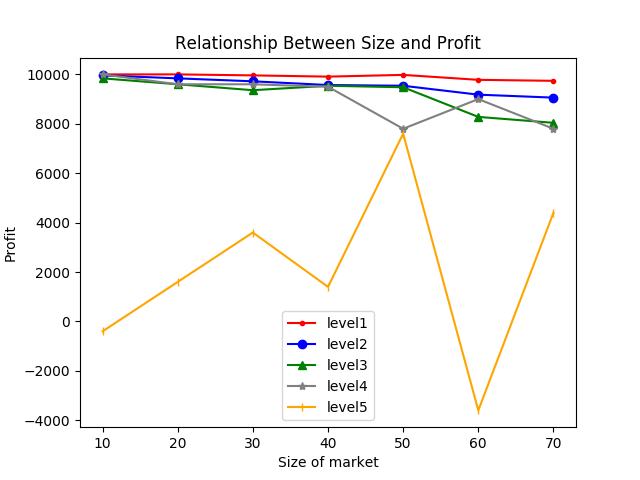
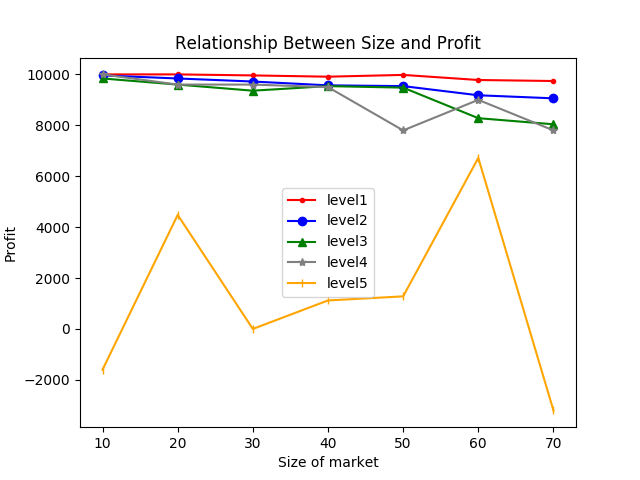
repeat the simulation for 100 times

diff --git a/Market_Profit.py b/Market_Profit.py
@@ -1,13 +1,15 @@
 import math
 import numpy as np
 import matplotlib.pyplot as plt
+import threading
+
 
 
 price_level = {'level1': 5,
                'level2': 15,
                'level3': 30,
                'level4': 50,
-               'level5': 100}
+               'level5': 80}
 
 income_level = {"low": 300,
                 "median": 1000,
@@ -24,6 +26,66 @@ level_color = {'level1': 'red',
                'level3': 'green',
                'level4': 'grey',
                'level5': 'orange'}
+
+# def getCustAmount(Market: object, resident_list: list):
+#     """
+#     For specific market, given a list of Resident objects, this function will calculate the amount of residents that will purchase in this market.
+#     :param Market: the target market object
+#     :param resident_list: the list of Resident object
+#     :return: the number of customers
+#     """
+#     cust_num = [0]  # because list is threading safe, and will be shared by all threads. int is not like this.
+#
+#     def calculate_resident(cust_num, row):
+#         for resident in row:
+#             if resident.purchase(Market.sell_price, Market.location, Market.size):
+#                 cust_num[0] += 1
+#
+#     tasks = list()
+#     for row in resident_list:
+#         tasks.append(threading.Thread(target=calculate_resident, args=(cust_num, row)))
+#     for t in tasks:
+#         t.start()
+#     for t in tasks:
+#         t.join()
+#     return cust_num[0]
+#
+#
+# def getResidents(map):
+#     '''
+#     Assume that we already have a map of a city, this function will generate a list of Resident according to your map.
+#     :param map: The map of the city
+#     :return: a list of Resident objects
+#     '''
+#     resident_list = []
+#     map_row = map.shape[0]
+#     map_col = map.shape[1]
+#
+#     tasks = list()
+#
+#     def handle_column(map, i, resident_list):
+#         row_list = list()
+#         for j in range(0, map_col):
+#             if map[i][j] == 2:
+#                 resident = Resident('high', (i, j))
+#                 row_list.append(resident)
+#             elif map[i][j] == 1:
+#                 resident = Resident('median', (i, j))
+#                 row_list.append(resident)
+#             else:
+#                 resident = Resident('low', (i, j))
+#                 row_list.append(resident)
+#         resident_list.append(row_list)
+#
+#     for i in range(0, map_row):
+#         tasks.append(target=handle_column, args=(map, i, resident_list))
+#     for t in tasks:
+#         t.start()
+#     for t in tasks:
+#         t.join()
+#     return resident_list
+
+
 
 class Market:
     def __init__(self, location, level:str, size:int):
@@ -219,11 +281,20 @@ def levelProfitPlot(map,resident,company,size):
     plt.title('The Influence of Market Distribution')
     plt.plot(level_list, profit_uni, "g+-", label="Uniform Distribution")
     profit_rand = []
+
+    def random_test(level, size, times):
+        pro_sum = 0
+        for count in range(times):
+            test_market = Market((0, 0), level, size)
+            loc = randomStoreLoc(map, int(company.getMaxamount(test_market)), False)
+            markets_list = getMarkets(loc, level, size)
+            pro_sum += getTotalProfit(markets_list, resident)
+        avg_pro = pro_sum/times
+        return avg_pro
+
     for level in level_list:
-        test_market = Market((0, 0), level, size)
-        loc = randomStoreLoc(map, int(company.getMaxamount(test_market)), False)
-        markets_list = getMarkets(loc, level, size)
-        profit_rand.append(getTotalProfit(markets_list, resident))
+        profit_rand.append(random_test(level,size,100))
+
     plt.plot(level_list, profit_rand, 'r^-', label="Random Distribution")
     plt.xlabel('Level Of Market')
     plt.ylabel('Total Profit')
